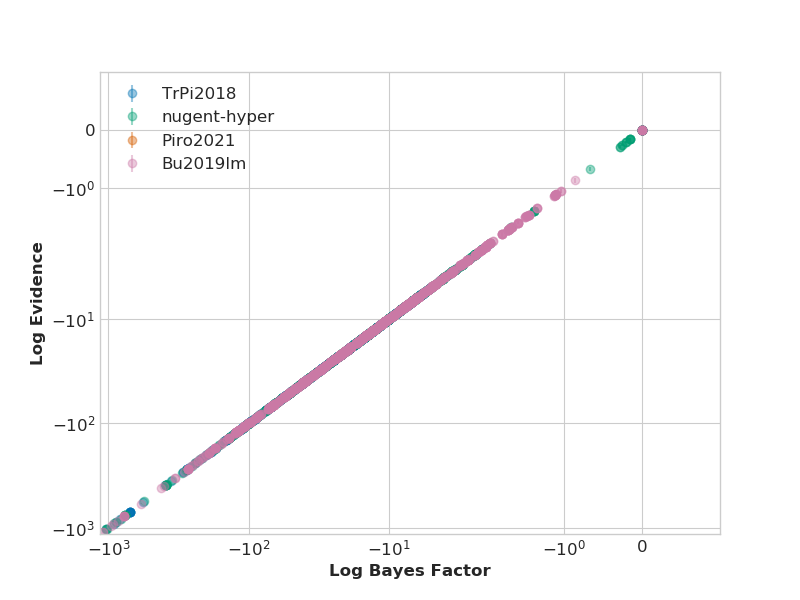
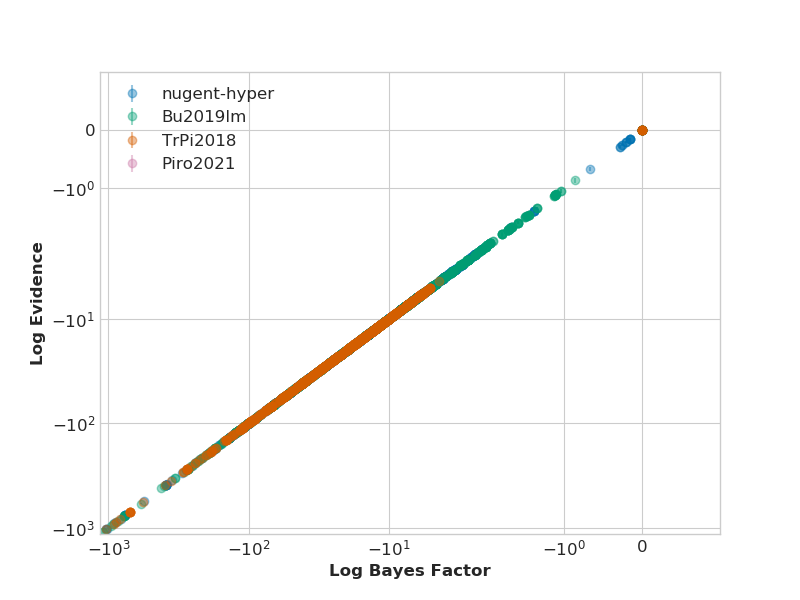
adjusted bayes time plot
added a marker cycling method to make the bayes factor/sampling time plot clearer

Also tried to create a kdeplot of the same thing, but could use refining

diff --git a/stats.py b/stats.py
@@ -10,6 +10,7 @@
 
 import argparse
 import glob
+import itertools
 import json
 import os
 import sys
@@ -39,7 +40,7 @@ parser.add_argument("-c","--candDir", type=str, default=None, help="Path to the 
 parser.add_argument("-f","--fitDir", type=str, default=None, help="Path to the fits directory")
 parser.add_argument('-v', '--verbose', action='store_true')
 parser.add_argument('-o', '--outdir', type=str, default=os.path.join('./outdir/stats/',time.strftime("%Y%m%d-%H%M%S"),''))
-parser.add_argument("-m","--models", nargs="+", default = ["TrPi2018","nugent-hyper", "Piro2021","Bu2019lm"], choices = ["TrPi2018","nugent-hyper", "Piro2021","Bu2019lm"], help="which models to analyse with the fit stats")
+parser.add_argument("-m","--models", nargs="+", default = ["nugent-hyper","Bu2019lm","TrPi2018","Piro2021"], choices = ["TrPi2018","nugent-hyper", "Piro2021","Bu2019lm"], help="which models to analyse with the fit stats")
 parser.add_argument('-df','--datafile',type=str, default=None, help="path to the csv file that's generated by the stats.py script")
 args = parser.parse_args()
 
@@ -895,6 +896,8 @@ def plotLikelihood(df, models=args.models, save=True,outdir=args.outdir):
         print ('total {} shape: {}\n'.format(key,fitTime['Total'].shape)) if args.verbose else None
     
     ## data plotting
+    ## list of marker types for plotting
+    marker = itertools.cycle(('^','8','s','p','*','h','H','+','x','D','d','.')) 
     ## plot a histogram of the log evidence for each model
     fig, ax = plotstyle(figsize=(8,6), facecolor='white')
     for key, value in fitEvid.items(): 
@@ -967,7 +970,8 @@ def plotLikelihood(df, models=args.models, save=True,outdir=args.outdir):
     for key, value in fitBayes.items(): 
         bayesValue = np.concatenate(fitBayes[key],axis=None).ravel() 
         timeValue = np.concatenate(fitTime[key],axis=None).ravel()
-        ax.scatter(x=timeValue, y=bayesValue, label=key, alpha=0.4) if key != 'Total' else None
+        ax.plot(timeValue, bayesValue, label=key, 
+                alpha=0.2, marker = next(marker), linestyle='') if key != 'Total' else None
     ax.set_xlabel("Sampling Time (s)")
     ax.set_ylabel('Log Bayes Factor')
     ax.legend()
@@ -978,6 +982,23 @@ def plotLikelihood(df, models=args.models, save=True,outdir=args.outdir):
     ax.set_xscale('symlog')
     ax.set_xlim(left=0)
     plt.savefig(plotDir("SamplingTimeBayesScatterModelLogLog",outdir=subdir)) if save else None
+    plt.clf()
+    
+    ## kde plot of sampling time vs bayes factor for each model
+    fig, ax = plotstyle(figsize=(8,6), facecolor='white')
+    for key, value in fitBayes.items(): 
+        bayesValue = np.concatenate(fitBayes[key],axis=None).ravel() 
+        timeValue = np.concatenate(fitTime[key],axis=None).ravel()
+        sns.kdeplot(x=timeValue, y=bayesValue, label=key,
+                    log_scale=(False, False), ax=ax, alpha=1) if key != 'Total' else None
+    ax.set_xlabel("Sampling Time (s)")
+    ax.set_ylabel('Log Bayes Factor')
+    ax.legend()
+    #ax.set_ylim(top=1)
+    ax.set_ylim(bottom=-500)
+    # ax.set_xscale('symlog')
+    # ax.set_yscale('symlog')
+    plt.savefig(plotDir("SamplingTimeBayesKDEModel",outdir=subdir)) if save else None
     plt.clf()
     
     ## scatter plot of sampling time vs evidence for each model
